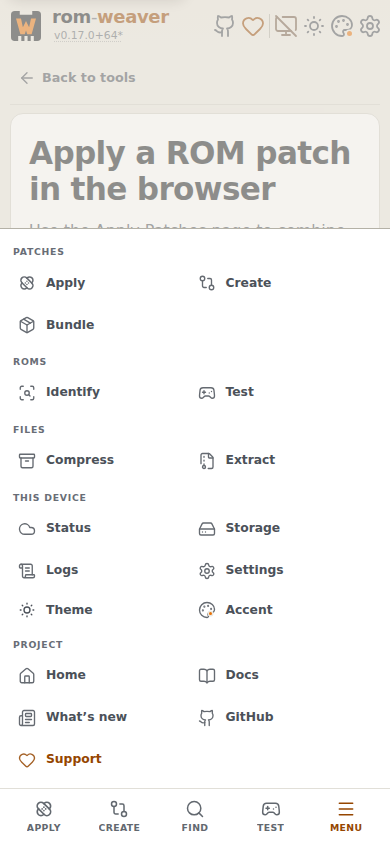
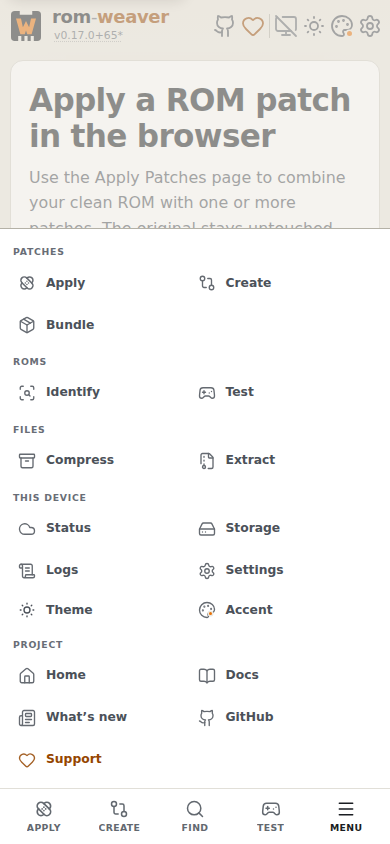
fix(docs): compact mobile overlays

Changed region(s): [[0.0615, 0.0616, 0.8923, 0.2773], [0.7692, 0.2464, 0.8615, 0.2773], [0.8615, 0.955, 0.9231, 0.9858]]

diff --git a/packages/rom-weaver-webapp/src/webapp/design-system/masthead.css b/packages/rom-weaver-webapp/src/webapp/design-system/masthead.css
@@ -1140,13 +1140,12 @@
   flex: none;
   align-items: center;
   justify-content: space-between;
-  padding: 8px var(--gutter);
+  padding: 4px var(--gutter);
   font-size: 1rem;
   border-bottom: 1px solid var(--seam);
 }
 .rw-app .docs-menu-header button,
-.rw-app .docs-mobile-toolbar button,
-.rw-app .docs-mobile-toolbar a {
+.rw-app .docs-mobile-toolbar button {
   display: inline-flex;
   gap: 6px;
   align-items: center;
@@ -1171,28 +1170,26 @@
 }
 @media (hover: hover) {
   .rw-app .docs-menu-header button:hover,
-  .rw-app .docs-mobile-toolbar button:hover,
-  .rw-app .docs-mobile-toolbar a:hover {
+  .rw-app .docs-mobile-toolbar button:hover {
     background: var(--well);
   }
 }
 .rw-app .docs-menu-header button:active,
-.rw-app .docs-mobile-toolbar button:active,
-.rw-app .docs-mobile-toolbar a:active {
+.rw-app .docs-mobile-toolbar button:active {
   background: var(--well);
 }
 .rw-app .menu-sheet-docs {
-  inset: 0;
-  width: 100%;
+  inset: auto var(--gutter) calc(var(--dock-h) + var(--sp-xs));
+  width: calc(100% - 2 * var(--gutter));
   max-width: none;
-  max-block-size: 100dvh;
-  height: 100dvh;
-  padding-inline: 0;
-  padding-top: var(--safe-t);
-  padding-bottom: var(--safe-b);
+  max-block-size: min(60dvh, calc(100dvh - var(--dock-h) - var(--safe-t) - 2 * var(--sp-xs)));
+  height: auto;
+  padding: 0;
   margin: 0;
   color: var(--ink);
-  border: 0;
+  border: 1px solid var(--seam-strong);
+  border-radius: var(--r-l);
+  box-shadow: var(--overlay-shadow);
 }
 .rw-app .menu-sheet-docs .menu-sheet-body {
   flex: 1;
@@ -1293,24 +1290,19 @@
     --dock-h: calc(53px + max(3px, var(--safe-b)));
   }
   .rw-app .docs-mobile-toolbar {
-    display: flex;
-    gap: 4px;
-    align-items: center;
-    justify-content: space-between;
-    padding-block: 4px;
-    border-bottom: 1px solid var(--seam);
+    display: contents;
   }
   .rw-app .docs-mobile-toolbar .docs-browse-trigger {
     position: fixed;
-    bottom: calc(var(--dock-h) + var(--sp-m));
+    bottom: calc(var(--dock-h) + var(--sp-xs));
     left: max(var(--gutter), var(--safe-l));
     z-index: 998;
-    gap: 10px;
-    padding-inline: 16px;
-    background: var(--plate);
-    border: 1px solid var(--seam-strong);
+    gap: 6px;
+    min-height: 36px;
+    padding: 4px 12px;
+    background: color-mix(in oklab, var(--plate) 88%, transparent);
+    border: 1px solid var(--seam);
     border-radius: 999px;
-    box-shadow: 0 8px 24px color-mix(in oklab, var(--ink) 18%, transparent);
   }
   @media (hover: hover) {
     .rw-app .docs-mobile-toolbar .docs-browse-trigger:hover {

diff --git a/packages/rom-weaver-webapp/src/webapp/design-system/docs.css b/packages/rom-weaver-webapp/src/webapp/design-system/docs.css
@@ -844,7 +844,7 @@ html:has(.docs-workbench) {
 }
 @media (max-width: 860px) {
   .rw-app {
-    --docs-chip-h: 44px;
+    --docs-chip-h: 36px;
   }
   .rw-app .docs-layout {
     grid-template-columns: minmax(0, 1fr);
@@ -868,7 +868,7 @@ html:has(.docs-workbench) {
      reserving a full-width strip above the app dock. */
   .rw-app .docs-trail {
     position: fixed;
-    inset: auto max(var(--gutter), var(--safe-r)) calc(var(--dock-h, 0px) + var(--sp-m)) auto;
+    inset: auto max(var(--gutter), var(--safe-r)) calc(var(--dock-h, 0px) + var(--sp-xs)) auto;
     /* under the dock (1000) and the update banner (999), over the article */
     z-index: 998;
     display: block;
@@ -893,16 +893,15 @@ html:has(.docs-workbench) {
     text-transform: uppercase;
     letter-spacing: 0.06em;
     cursor: pointer;
-    background: var(--plate);
-    border: 1px solid var(--seam-strong);
+    background: color-mix(in oklab, var(--plate) 88%, transparent);
+    border: 1px solid var(--seam);
     border-radius: 999px;
-    box-shadow: 0 8px 24px color-mix(in oklab, var(--ink) 18%, transparent);
   }
   .rw-app .docs-trail-menu svg {
     flex: none;
     width: 18px;
     height: 18px;
-    color: var(--weft);
+    color: currentColor;
   }
   .rw-app .docs-trail-menu[aria-expanded="true"] {
     color: var(--ink);
@@ -922,11 +921,11 @@ html:has(.docs-workbench) {
   }
   .rw-app .docs-contents-menu {
     position: fixed;
-    inset: auto var(--gutter) calc(var(--dock-h, 0px) + var(--docs-chip-h) + 2 * var(--sp-m));
+    inset: auto var(--gutter) calc(var(--dock-h, 0px) + var(--docs-chip-h) + 2 * var(--sp-xs));
     z-index: 999;
     display: grid;
-    gap: var(--sp-m);
-    max-height: min(70dvh, calc(100dvh - var(--dock-h, 0px) - var(--docs-chip-h) - 3 * var(--sp-m)));
+    gap: var(--sp-s);
+    max-height: min(50dvh, calc(100dvh - var(--dock-h, 0px) - var(--docs-chip-h) - var(--safe-t) - 3 * var(--sp-xs)));
     padding: var(--sp-s);
     overflow-y: auto;
     overscroll-behavior: contain;

diff --git a/packages/rom-weaver-webapp/tests/browser/webapp.browser.test.js b/packages/rom-weaver-webapp/tests/browser/webapp.browser.test.js
@@ -292,7 +292,9 @@ test("mobile Docs keeps the workflow dock and owns a separate navigation dialog"
     "Menu",
   ]);
   const trigger = document.querySelector(".docs-browse-trigger");
+  expect(document.querySelector(".docs-mobile-toolbar a")).toBeNull();
   expect(getComputedStyle(trigger).position).toBe("fixed");
+  expect(trigger.getBoundingClientRect().height).toBe(36);
   expect(trigger.getBoundingClientRect().bottom).toBeLessThanOrEqual(844);
   expect(trigger.getBoundingClientRect().bottom).toBeLessThanOrEqual(dock.getBoundingClientRect().top);
   expect(trigger.getBoundingClientRect().left).toBeLessThan(30);
@@ -310,7 +312,10 @@ test("mobile Docs keeps the workflow dock and owns a separate navigation dialog"
   expect(panel.querySelectorAll(".nav-row")).toHaveLength(1);
   expect(panel.querySelector(".nav-row")?.textContent).toBe("Back to tools");
   expect(panel.querySelectorAll(".guide-nav a")).toHaveLength(61);
-  expect(panel.getBoundingClientRect().height).toBe(844);
+  expect(panel.getBoundingClientRect().height).toBeLessThanOrEqual(844 * 0.6 + 1);
+  expect(panel.getBoundingClientRect().bottom).toBeLessThan(dock.getBoundingClientRect().top);
+  const body = panel.querySelector(".menu-sheet-body");
+  expect(body.scrollHeight).toBeGreaterThan(body.clientHeight);
   expect(panel.querySelector(".guide-shelf > summary").getBoundingClientRect().height).toBeGreaterThanOrEqual(44);
   close.click();
   await expect.poll(() => panel.open).toBe(false);

diff --git a/packages/rom-weaver-webapp/tests/unit/docs-page.test.tsx b/packages/rom-weaver-webapp/tests/unit/docs-page.test.tsx
@@ -727,7 +727,7 @@ Fixture description.
     render(docsShell("docs", "docs", language));
     expect(document.querySelector('.side-nav a[href="/apply-patches"]')?.textContent).toBe(back);
     expect(document.querySelector(".side-nav .nav-group-label")?.textContent).toBe(title);
-    expect(document.querySelector(".docs-mobile-toolbar a")?.textContent).toBe(back);
+    expect(document.querySelector(".docs-mobile-toolbar a")).toBeNull();
     const trigger = document.querySelector(".docs-browse-trigger") as HTMLElement;
     expect(trigger.textContent).toBe(browse);
     expect(document.querySelector(".dock-find")?.getAttribute("aria-label")).toBe(find);

diff --git a/packages/rom-weaver-webapp/src/webapp/components/masthead.tsx b/packages/rom-weaver-webapp/src/webapp/components/masthead.tsx
@@ -552,10 +552,6 @@ const Masthead = ({
           </div>
           {currentTab === "docs" ? (
             <div className="docs-mobile-toolbar">
-              <a href="/apply-patches">
-                <ArrowLeft aria-hidden="true" />
-                {localizer.message("ui.docs.backToTools")}
-              </a>
               <button
                 aria-controls="docs-menu-sheet"
                 aria-expanded={docsMenuOpen}
